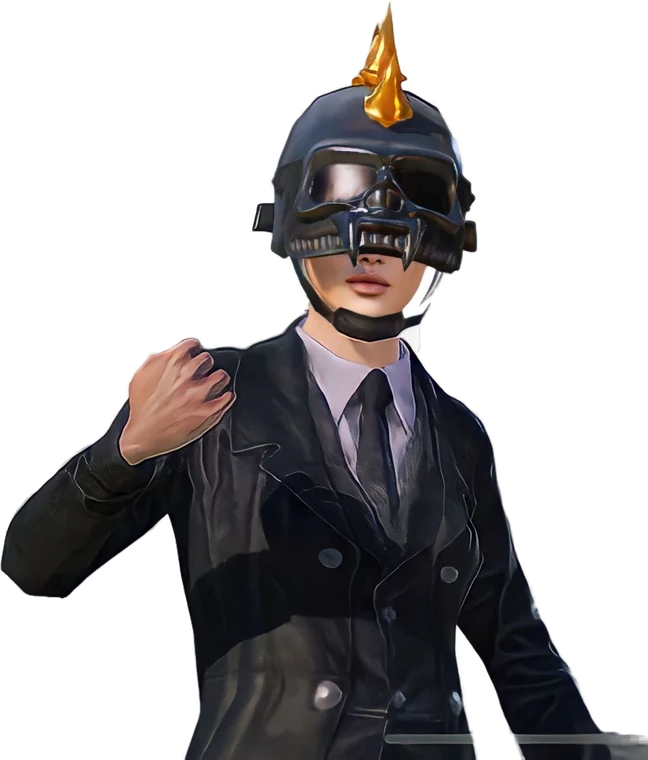
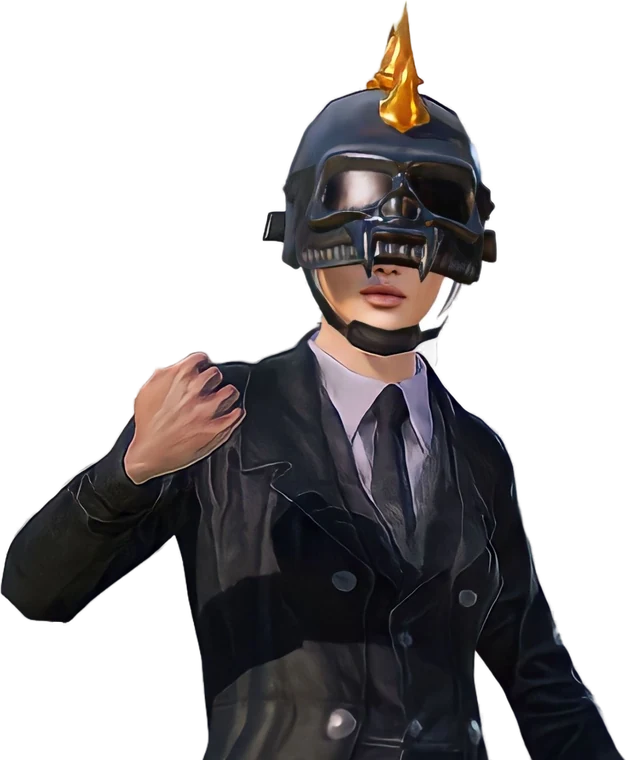
Standart personajlar: chiziq olib tashlandi, admin o'z rasmlari bilan almashtira oladi
- 1-personaj pastidagi asl rasmdan qolgan chiziq kesildi
- Sozlamalar -> Standart personajlar: 4 ta joy, rasm yuklash va asliga qaytarish

Claude-Session: https://claude.ai/code/session_01CvhNJpz6HuCQFwtWjatCqQ

diff --git a/pubg-overlay/js/admin.js b/pubg-overlay/js/admin.js
@@ -291,6 +291,9 @@
       <div class="row"><label style="flex:1">Joylashuvi<select data-g="bpos">${[['tr', 'O\'ng yuqori burchak'], ['tl', 'Chap yuqori burchak'], ['top', 'Tepada markazda (sarlavha ustida)'], ['bottom', 'Pastda, homiylar qatorida'], ['none', 'Ko\'rsatilmasin']].map(o => `<option value="${o[0]}" ${cfg.brand.pos === o[0] ? 'selected' : ''}>${o[1]}</option>`).join('')}</select></label>
         <label>O'lchami<select data-g="bsize">${[['s', 'Kichik'], ['m', 'O\'rta'], ['l', 'Katta']].map(o => `<option value="${o[0]}" ${cfg.brand.size === o[0] ? 'selected' : ''}>${o[1]}</option>`).join('')}</select></label></div>
       <div class="row"><label><span><input type="checkbox" data-g="bname" ${cfg.brand.name ? 'checked' : ''}> Logo yonida turnir nomini ham yozish</span></label></div>
+      <h3 style="margin-top:12px">Standart personajlar</h3>
+      <p class="hint">Rasmi yuklanmagan o'yinchilar o'rnida chiqadi: jamoadagi 1-o'yinchiga 1-personaj, 2-o'yinchiga 2-personaj va h.k. Foni shaffof PNG yuklang (beldan yuqori, tik kadr).</p>
+      <div class="chars">${U.DEF_CHARS.map((d, i) => `<div class="chr"><span class="up" title="${i + 1}-personajni almashtirish"><img src="${esc(cfg.chars[i] || d)}"><input type="file" accept="image/*" data-c="char" data-id="${i}"></span><b>${i + 1}</b>${cfg.chars[i] ? `<button class="dng" data-a="charReset" data-id="${i}" title="Asl personajga qaytarish">↺</button>` : ''}</div>`).join('')}</div>
       <h3 style="margin-top:12px">Homiylar</h3>
       <div class="spn">${cfg.sponsors.map((s, i) => `<span class="up"><img src="${esc(s)}"><button class="dng" data-a="delSp" data-id="${i}" style="position:absolute;right:2px;top:2px;padding:0 6px">✕</button></span>`).join('')}${up('', 'sponsor', '', 'Homiy logosi')}</div></div>
     <div class="box"><h3>Bosqichlar (kun / guruh / final)</h3><p class="hint">Har bir bosqichning o'z matchlari va o'z jadvali bor. Joriy bosqich ekranda ko'rsatiladi.</p>
@@ -470,6 +473,7 @@
       });
       saveCfg(); render();
     },
+    charReset(d) { cfg.chars[+d.id] = ''; saveCfg(); render(); },
     delBg() { cfg.bg = ''; saveCfg(); render(); },
     delSp(d) { cfg.sponsors.splice(+d.id, 1); saveCfg(); render(); },
     delMatch(d) { if (!confirm('Bu match natijasi o\'chirilsinmi?')) return; hist.matches.splice(+d.id, 1); saveHist(); render(); },
@@ -549,7 +553,7 @@
     if (d.c === 'restore') { if (el.files[0]) restore(el.files[0]); el.value = ''; return; }
     if (d.c) { // image uploads
       const f = el.files[0]; if (!f) return;
-      const src = await readImage(f, d.c === 'bg' ? 1920 : d.c === 'mapimg' ? 1100 : d.c === 'sponsor' ? 360 : d.c === 'pphoto' ? 400 : 200, d.c === 'mapimg' || d.c === 'bg' ? .86 : .82);
+      const src = await readImage(f, d.c === 'char' ? 760 : d.c === 'bg' ? 1920 : d.c === 'mapimg' ? 1100 : d.c === 'sponsor' ? 360 : d.c === 'pphoto' ? 400 : 200, d.c === 'mapimg' || d.c === 'bg' ? .86 : .82);
       if (!src) return alert('Rasm o\'qilmadi');
       if (d.c === 'mapimg') { maps.list.find(m => m.id === d.id).img = src; saveMaps(); render(); return; }
       if (d.c === 'tlogo') ix.t[d.id].logo = src;
@@ -557,6 +561,7 @@
       else if (d.c === 'logo') cfg.logo = src;
       else if (d.c === 'sponsor') cfg.sponsors.push(src);
       else if (d.c === 'bg') cfg.bg = src;
+      else if (d.c === 'char') { while (cfg.chars.length < 4) cfg.chars.push(''); cfg.chars[+d.id] = src; }
       saveCfg(); render();
     } else if (d.t) { ix.t[d.id][d.t] = d.t === 'name' ? el.value : d.t === 'tag' ? el.value.toUpperCase() : el.value.toLowerCase(); saveCfg(); }
     else if (d.p) { ix.p[d.id].p.name = el.value; saveCfg(); }

diff --git a/pubg-overlay/js/common.js b/pubg-overlay/js/common.js
@@ -26,6 +26,8 @@ const U = {
     c.matchPoint = Object.assign({ on: false, target: 60 }, c.matchPoint);
     c.brand = Object.assign({ pos: 'tr', size: 'm', name: true }, c.brand);
     c.teams = c.teams || []; c.sponsors = c.sponsors || [];
+    c.chars = Array.isArray(c.chars) ? c.chars.slice(0, 4) : [];   // admin's own default characters (empty = built-in)
+    U._chars = c.chars;
     c.teams.forEach(t => { t.players = t.players || []; });
     // stages (days / groups): each has its own matches and standings
     if (!Array.isArray(c.stages) || !c.stages.length) c.stages = [{ id: 'main', name: c.stage || 'GRAND FINALS', teams: null }];
@@ -155,7 +157,8 @@ const U = {
   photo(t, p) {
     if (p && p.photo) return { src: p.photo, def: false };
     const i = Math.max(0, t && p ? t.players.findIndex(x => x.id === p.id) : 0);
-    return { src: U.DEF_CHARS[i % U.DEF_CHARS.length], def: true };
+    const k = i % U.DEF_CHARS.length;
+    return { src: (U._chars && U._chars[k]) || U.DEF_CHARS[k], def: true };
   },
   PER_PAGE: 16,                                    // teams per page of a standings scene / picture
   pages(n) { return Math.max(1, Math.ceil(n / U.PER_PAGE)); },

diff --git a/pubg-overlay/css/admin.css b/pubg-overlay/css/admin.css
@@ -179,3 +179,10 @@ body.picking #tabs, body.picking #clock, body.picking #undo, body.picking #who {
 
 .pages { margin: 0 0 8px; }
 .pages small { opacity: .7; font-size: 11px; }
+
+.chars { display: flex; gap: 10px; flex-wrap: wrap; }
+.chr { width: 92px; position: relative; display: flex; flex-direction: column; align-items: center; gap: 4px; }
+.chr .up { width: 92px; aspect-ratio: .8; background: repeating-conic-gradient(#1c2430 0 25%, #141a23 0 50%) 0 0 / 16px 16px; }
+.chr .up img { object-fit: contain; object-position: 50% 100%; }
+.chr b { font-size: 12px; color: var(--mu); }
+.chr button { position: absolute; top: 2px; right: 2px; padding: 0 6px; }
